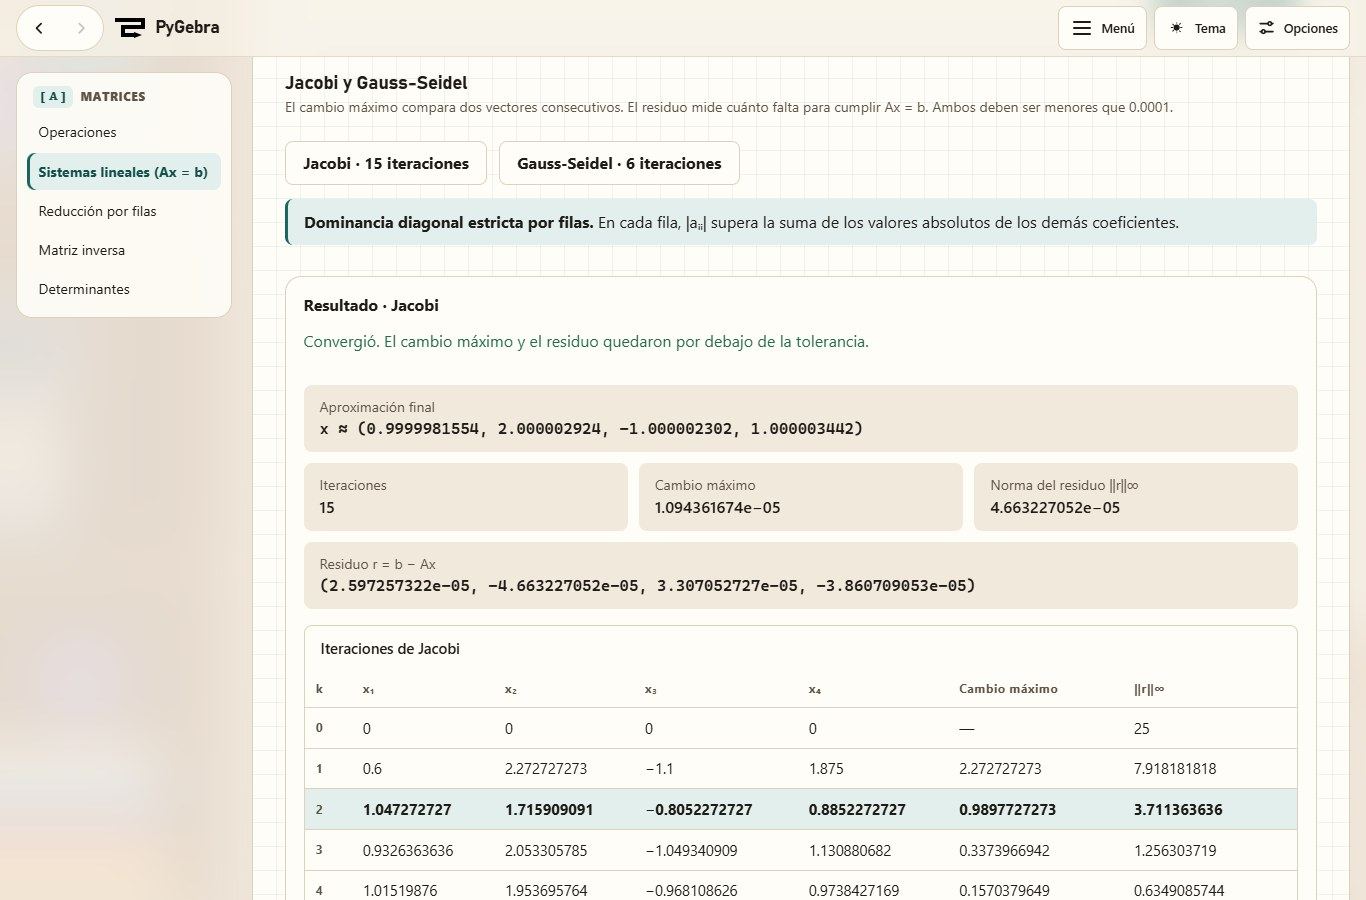
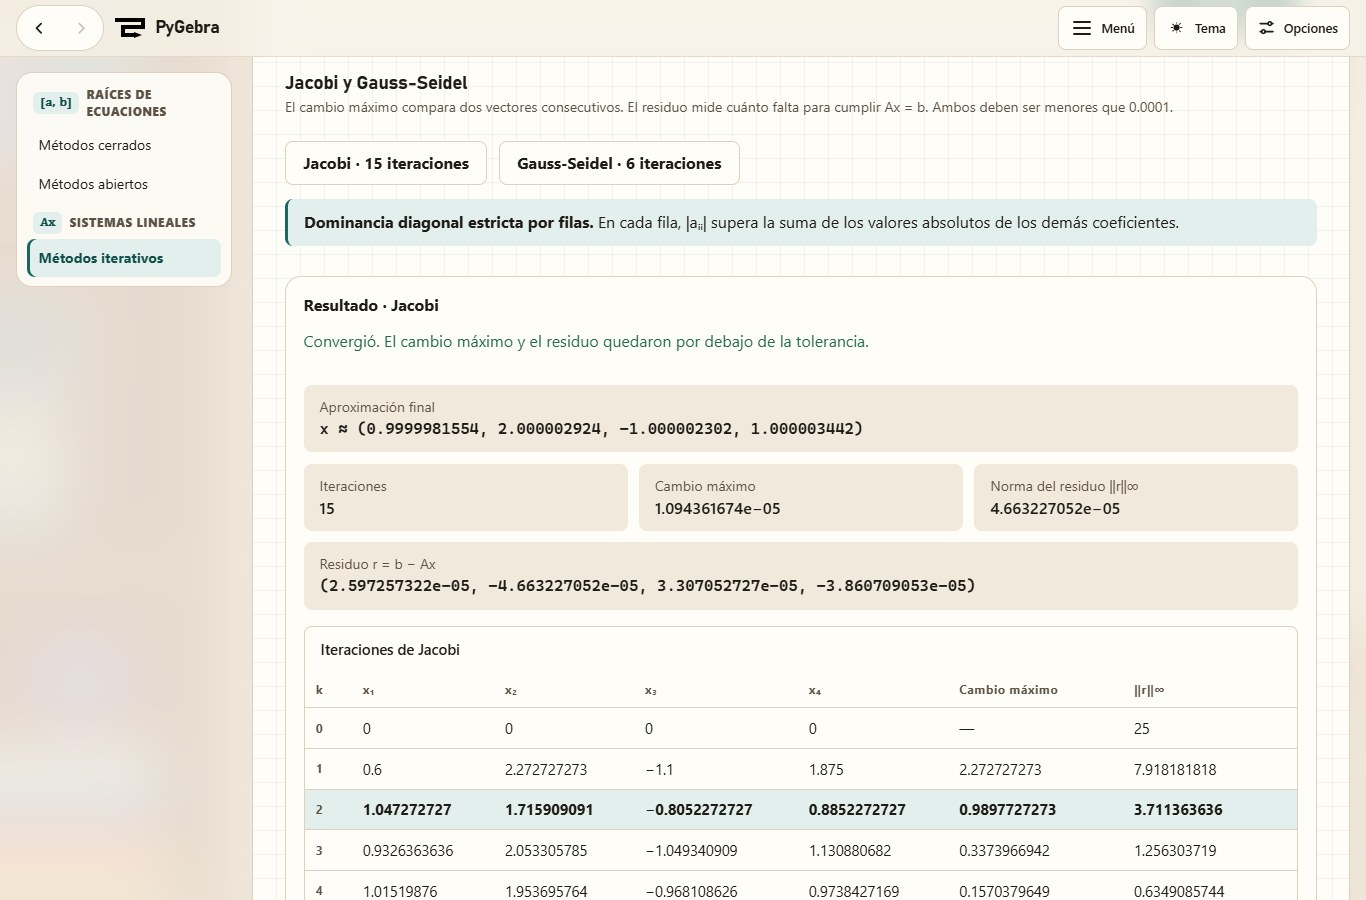
docs: actualizar navegación, pruebas y capturas de los iterativos

diff --git a/docs/sistemas-iterativos.md b/docs/sistemas-iterativos.md
@@ -1,9 +1,14 @@
 # Jacobi y Gauss-Seidel en Ax = b
 
-En **Matrices → Sistemas lineales (Ax = b)**, ingresa la matriz cuadrada A y el
-vector b. Puedes elegir **Jacobi**, **Gauss-Seidel** o **Comparar Jacobi y
-Gauss-Seidel**. La comparación parte del mismo vector inicial para ambos
-métodos. Si dejas vacío el vector inicial, PyGebra usa ceros.
+Abre **Métodos numéricos → Sistemas lineales → Métodos iterativos** e ingresa
+la matriz cuadrada A y el vector b. Puedes elegir **Jacobi**, **Gauss-Seidel** o
+**Comparar ambos**. La comparación parte del mismo vector inicial para los dos
+métodos. Si dejas el vector inicial vacío, PyGebra usa ceros.
+
+**Métodos cerrados** y **Métodos abiertos** buscan raíces de funciones.
+**Métodos iterativos** aproxima las componentes de la solución de un sistema
+lineal. Desde **Matrices → Sistemas lineales (Ax = b)** puedes abrir la
+herramienta mediante el enlace que acompaña a los métodos directos.
 
 ## Cómo se calcula
 
@@ -76,22 +81,29 @@ comprobar las filas corregidas. También cubren los dos criterios de parada,
 la falta de dominancia y de convergencia, diagonal nula, entradas inválidas,
 desbordamiento y la correspondencia entre la tabla, los operandos y el resultado.
 
-- Pruebas focalizadas del motor y la vista. 18 correctas.
-- Suite completa de Python. 2.065 pruebas correctas. También pasaron la
+- Pruebas focalizadas. 178 correctas sobre el motor, la ruta nueva, la
+  navegación, la búsqueda, los formularios y los métodos directos.
+  La comprobación adicional del catálogo de Estudio y la ruta dio 37 correctas.
+  El archivo del motor y sus pruebas matemáticas coinciden byte por byte con
+  los de la revisión anterior del PR.
+- Suite completa de Python. 2.068 pruebas correctas. También pasaron la
   verificación del lockfile, Django, compilación, sintaxis de JavaScript y
   `git diff --check`.
 - Runners de navegador del proyecto. Buscador 21/21, edición de entradas
   350/350 y presentación de resultados 111/111.
-- Edge 158 con Playwright. Flujo en escritorio a 1366 px, móvil a 390 y 320 px
-  y colores forzados. Se ejercitaron toque, teclado, foco, desplazamiento local
-  de la tabla, plegado de la gráfica y consistencia del desarrollo. Se comprobó
-  la primera sustitución sin JavaScript y el ajuste de etiquetas de la gráfica
-  con residuos muy pequeños a 320 px.
+- Edge 158 con Playwright. Escritorio a 1366 px y móvil a 390 px en ambos
+  temas, además de colores forzados. Se comprobaron las tres familias,
+  el enlace desde Ax = b, el selector, el foco, la tabla y las sustituciones.
+  Sin JavaScript se comprobó el enlace del área, **Aplicar** para cambiar
+  dimensiones, el cálculo y la primera sustitución. Se ejercitó también la
+  gráfica con residuos muy pequeños a 320 px.
 - axe-core 4.14.1. Sin hallazgos en las reglas automatizadas de WCAG A/AA
-  ejecutadas en los cuatro perfiles de navegador. La prueba móvil se hizo
+  ejecutadas en los cinco perfiles de navegador. La prueba móvil se hizo
   por emulación. Quedan pendientes el lector de pantalla y el paquete
   instalado de Windows/WebView2.
 
+[Familias de Métodos numéricos](capturas/iterativos/00-familias-metodos-numericos.jpg) ·
 [Resultado en escritorio](capturas/iterativos/01-clase-escritorio.jpg) ·
 [Gauss-Seidel, iteración 2 y gráfica](capturas/iterativos/02-gauss-seidel-iteracion-2.jpg) ·
-[Práctica en móvil](capturas/iterativos/03-practica-movil.jpg)
+[Resultado de práctica en móvil](capturas/iterativos/03-practica-movil.jpg) ·
+[Formulario en móvil](capturas/iterativos/04-formulario-movil.jpg)

diff --git a/docs/arquitectura.md b/docs/arquitectura.md
@@ -90,7 +90,13 @@ retira del registro; Inicio, menú, buscador y breadcrumbs cambian juntos.
 orden: Operaciones (también vectores y escalares), Sistemas lineales (Ax = b),
 Reducción por filas, Matriz inversa y Determinantes. Raíces de ecuaciones tiene
 Métodos cerrados (Bisección y Regla falsa, alias de ruta `calculadora:regla-falsa`)
-y Métodos abiertos (Newton-Raphson y Secante). Desde P26.6, Operaciones con matrices
+y Métodos abiertos (Newton-Raphson y Secante). **Métodos iterativos** tiene una
+ruta propia en la categoría Sistemas lineales de Métodos numéricos. Comparte
+con Sistemas lineales (Ax = b) el editor de A y b, la validación de celdas
+y el teclado matemático. Jacobi y Gauss-Seidel calculan en
+[`backend/sistemas_iterativos.py`](../backend/sistemas_iterativos.py).
+
+Desde P26.6, Operaciones con matrices
 usa el motor de expresiones para operaciones simples y compuestas; la ruta
 `/matrices/expresiones/` solo redirige (GET 301, POST 308) y no es una
 herramienta del catálogo.

diff --git a/docs/README.md b/docs/README.md
@@ -8,7 +8,7 @@
   vectores, operaciones con matrices (simples y compuestas), conversión de bases y ejemplos para interpretar resultados.
 - [Algoritmos](algoritmos.md): implementación manual, aritmética exacta,
   procedimientos estructurados y conexiones entre Ax, combinaciones y sistemas.
-- [Jacobi y Gauss-Seidel](sistemas-iterativos.md) · despejes, ejemplos de clase y verificación en Ax = b.
+- [Jacobi y Gauss-Seidel](sistemas-iterativos.md) · despejes, ejemplos de clase y verificación en Métodos iterativos.
 - [Instalación Windows](instalacion-windows.md): requisitos, uso y desinstalación;
   también construcción y verificación del paquete para mantenedores.
 

diff --git a/README.md b/README.md
@@ -61,6 +61,8 @@ Los cálculos largos piden confirmación según el
   con secantes y confirmación de cercanía por signos, en una sola herramienta con gráfica
   interactiva offline, recorrido reproducible e historial. Precisión predeterminada `0.0001`.
 - **Métodos abiertos:** [Newton-Raphson](docs/newton-raphson.md) y [Secante](docs/secante.md).
+- **Métodos iterativos** · [Jacobi y Gauss-Seidel](docs/sistemas-iterativos.md) para sistemas lineales
+  cuadrados Ax = b, con comparación, tabla de iteraciones y sustituciones.
 
 ### Conjuntos
 
